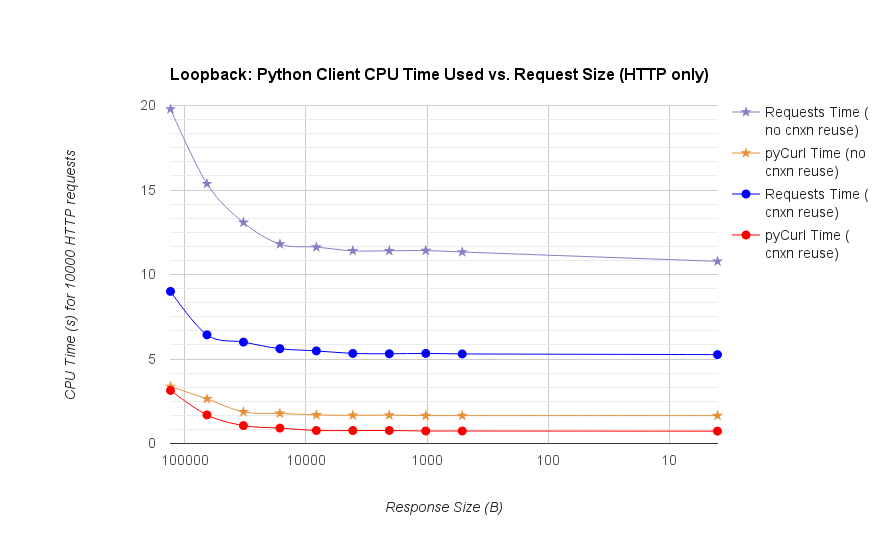
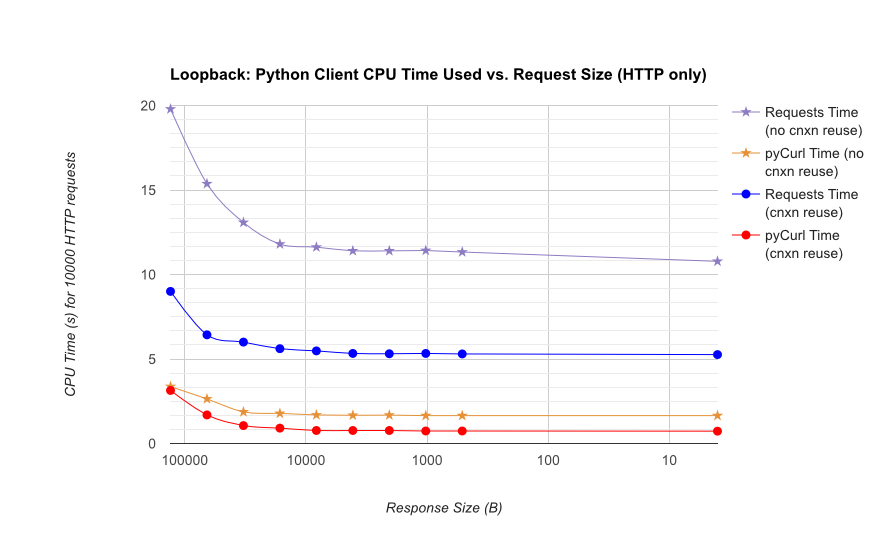
More detail in README, and better label graphs

diff --git a/README.md b/README.md
@@ -37,15 +37,17 @@ PyCurl is much faster than Requests (or other HTTP client libraries), generally 
 
 On this system:
 * pycurl takes about 73 CPU-microseconds to issue a request when reusing a connection
-* requests takes about ****526 CPU-microseconds to issue a request when reusing a connection
+* requests takes about **526 CPU-microseconds** to issue a request when reusing a connection
 * pycurl takes about 165 CPU-microseconds to *open a new connection* and issue a request (no connection reuse), or ~92 microseconds to open
 * requests takes about **1078** CPU-microseconds to *open a new connection* and issue a request (no connection reuse), or ~552 microseconds to open
 
 # Benchmark Setup
 
-Testing with two c4.large instances in AWS, one running a client, and the other running the server. 
-For loopback tests, both are run on the same (client) system. 
-Logs were collected from each benchmark run, along with vmstat dumps to verify that the CPU was never fully loaded (and never a bottleneck).
+* Testing with two c4.large instances in AWS, one running a client, and the other running the server. 
+* All tests issued 10000 sequential requests to minimize the impact of noise
+* Timing was done using timeit, to separate initial setup & library loading from actual request time. 
+* For loopback tests, both are run on the same (client) system, to measure performance without bandwidth limits. 
+* Logs were collected from each benchmark run, along with vmstat dumps to verify that the CPU was never fully loaded (and never a bottleneck).
 
 Specs: 
 
